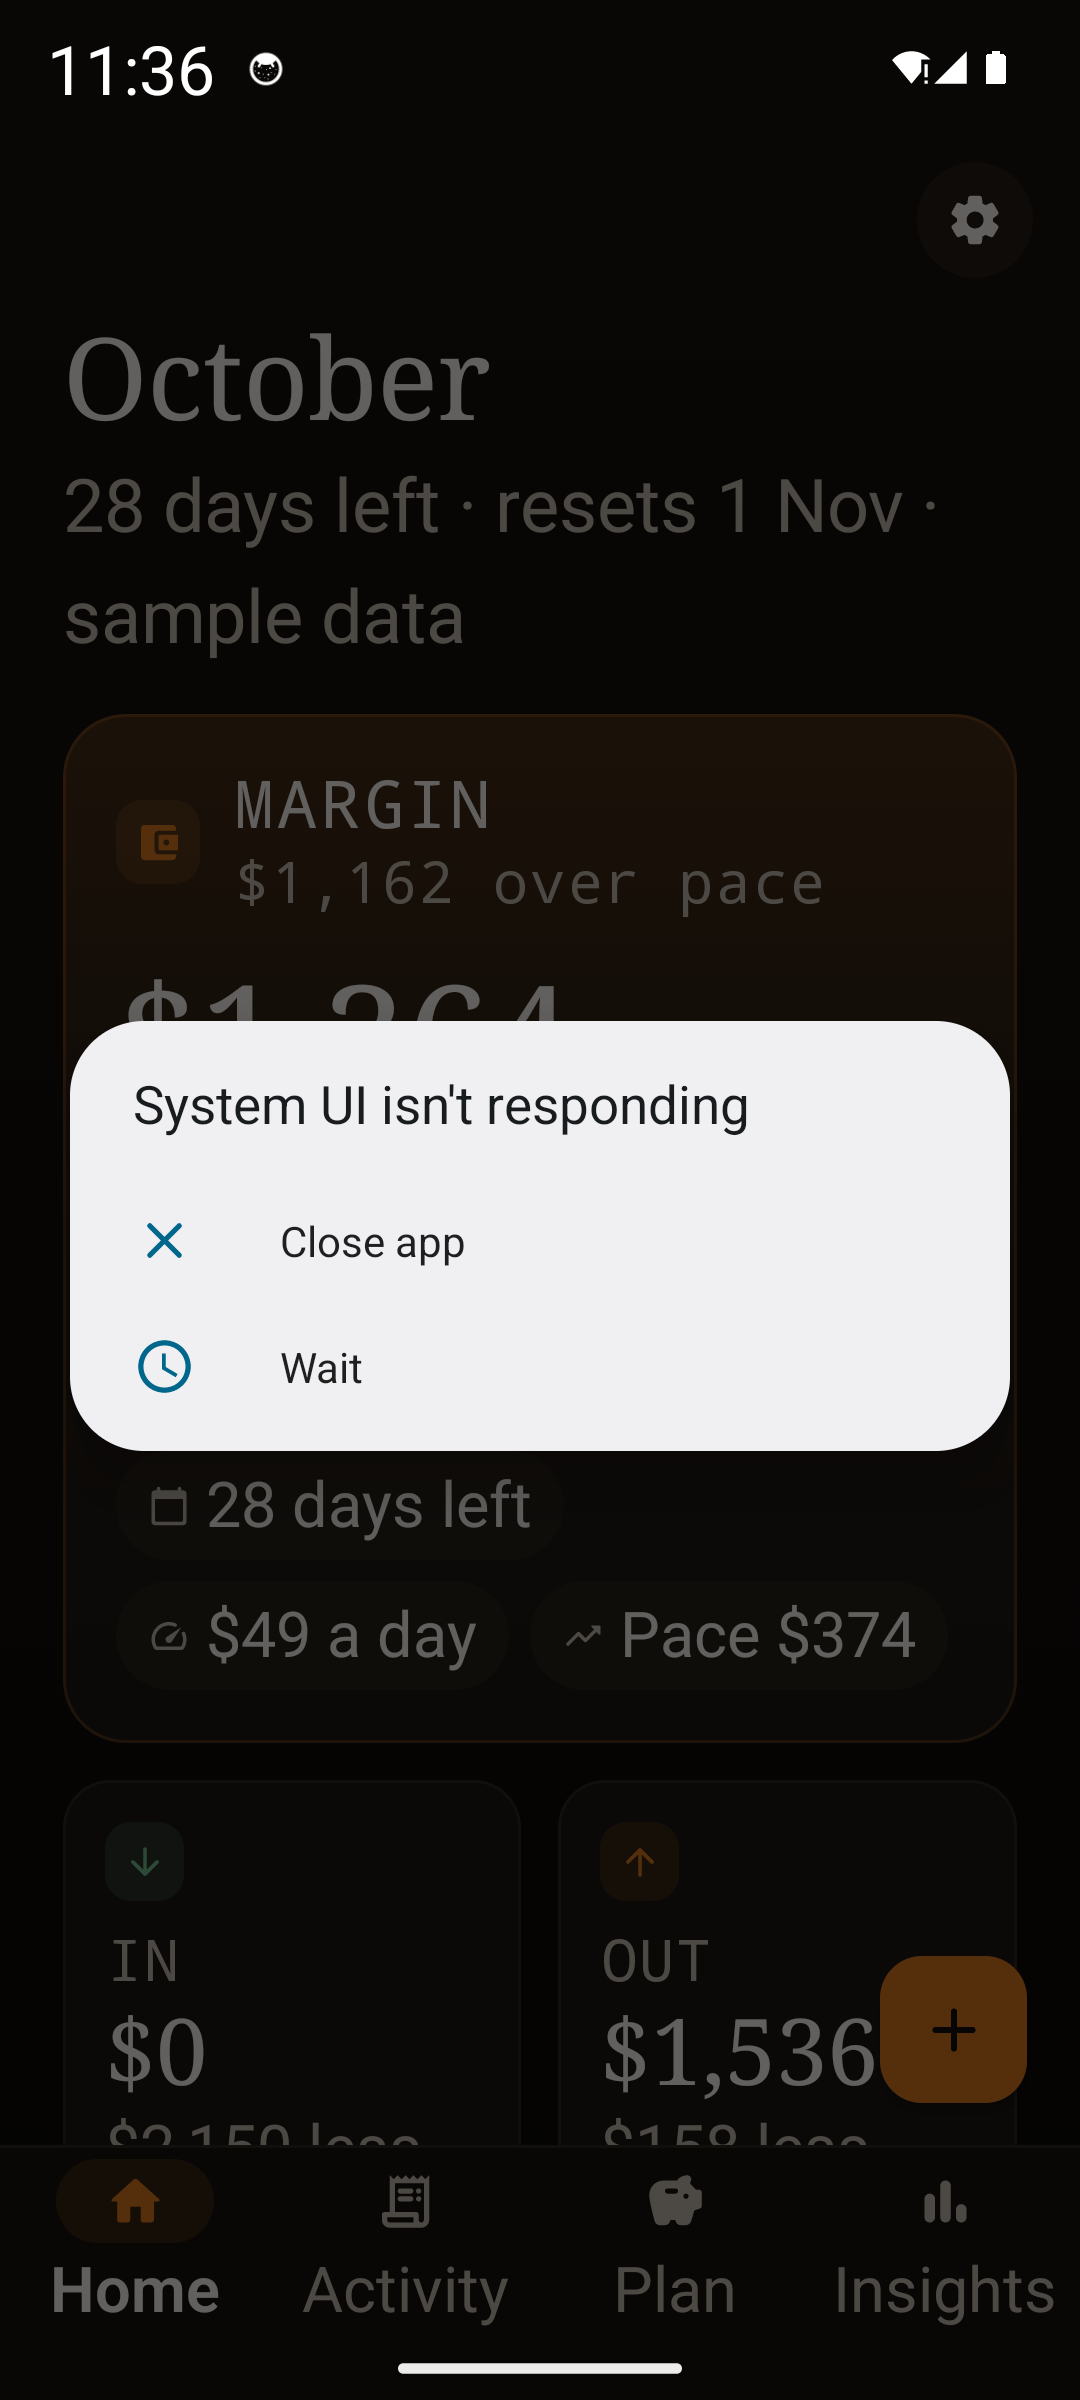
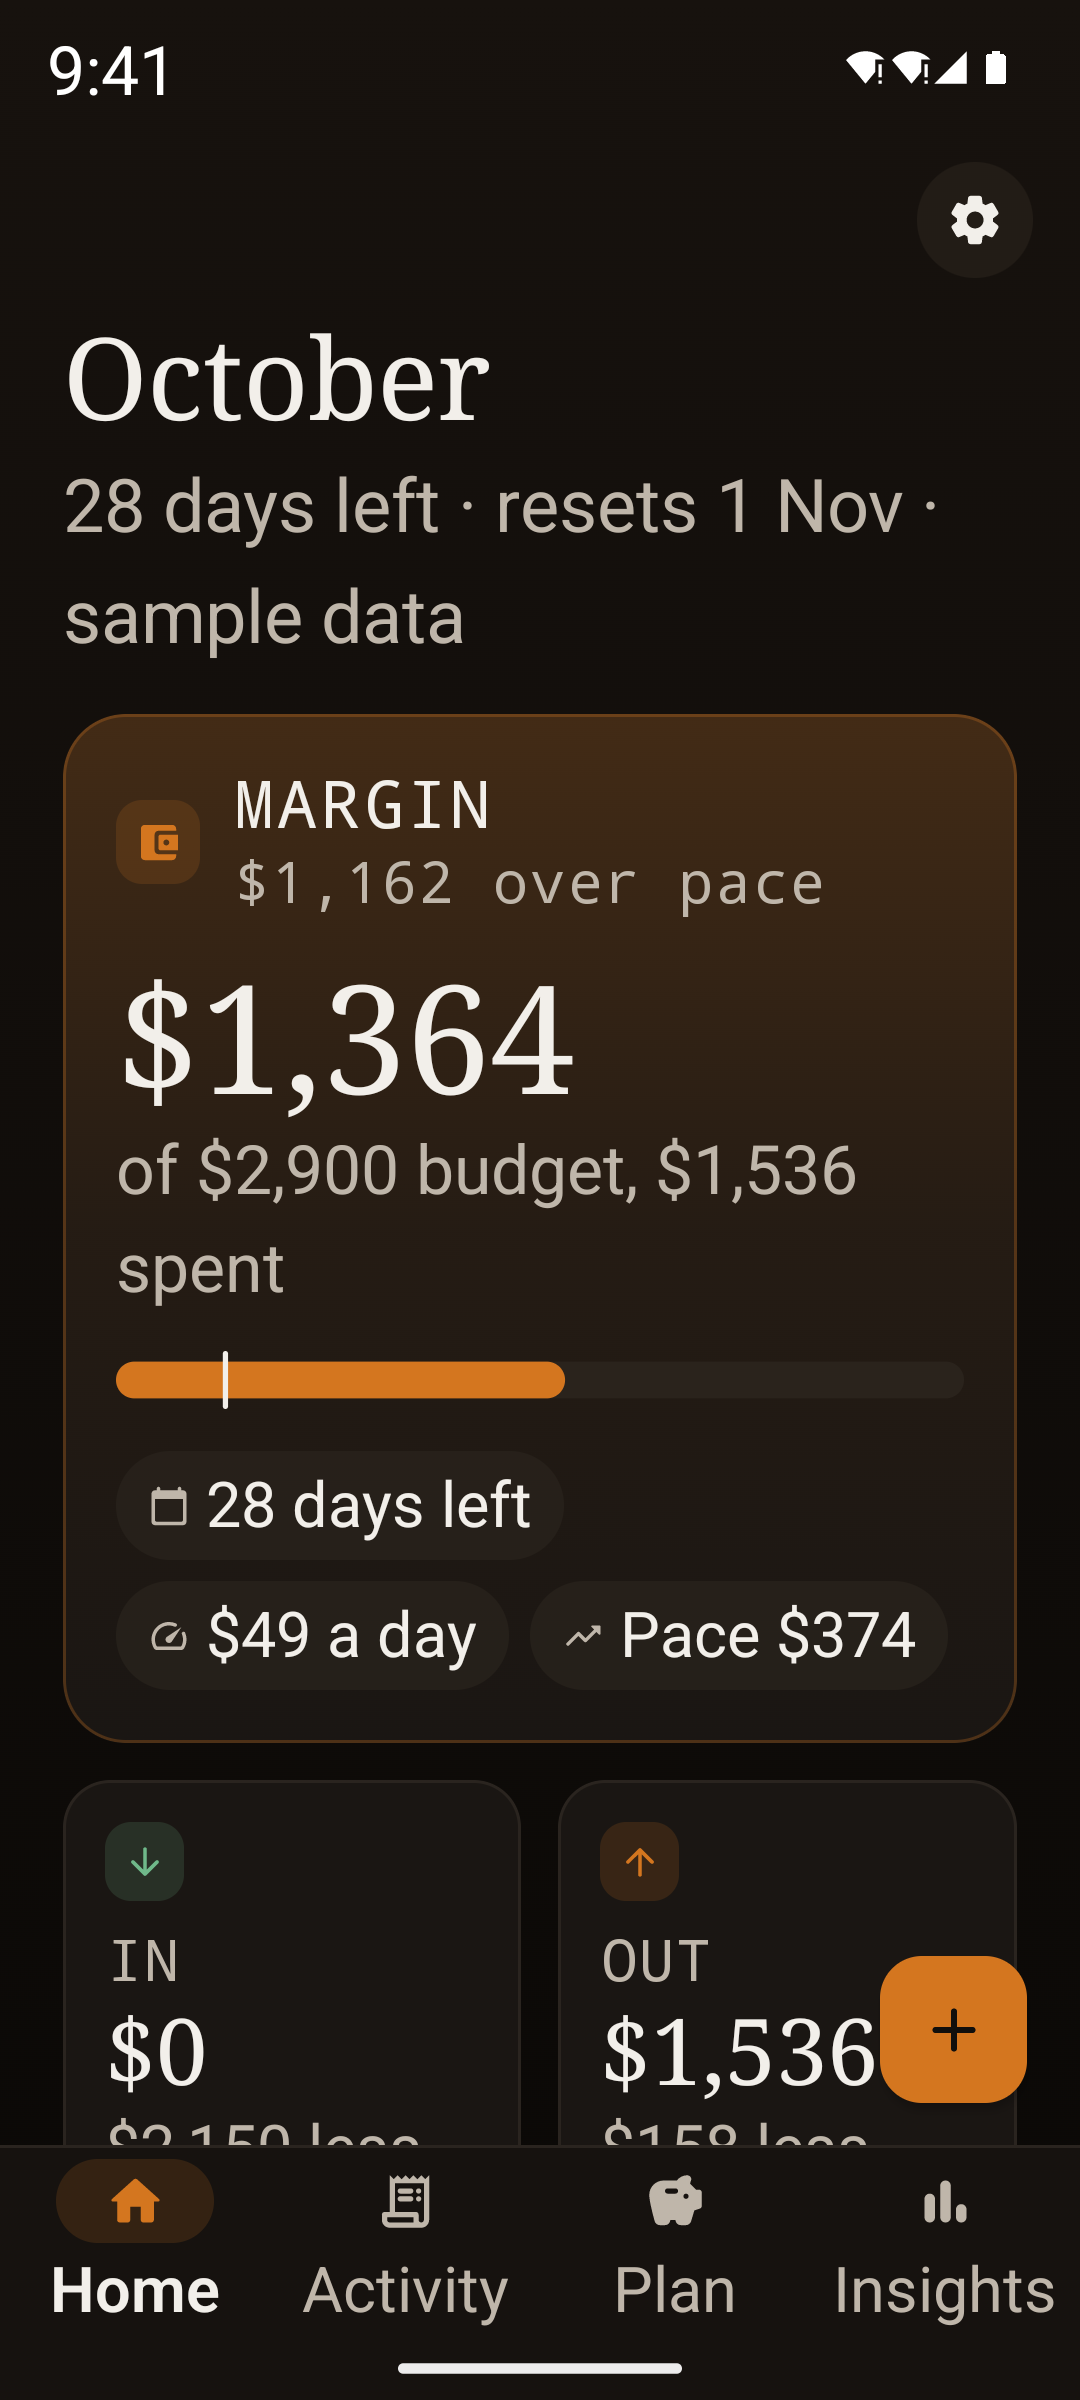
Record device captures

diff --git a/apps/tally/.impeccable/captures/PROVENANCE.md b/apps/tally/.impeccable/captures/PROVENANCE.md
@@ -3,8 +3,8 @@
 Emulator screenshots of Home with its real system bars, for the design finish review.
 Written by `.github/workflows/device-captures.yml`; run it again rather than editing these.
 
-- Run: [37243670550](https://github.com/antho976/Tally/actions/runs/37243670550)
-- Commit: `830e8433dc123d8838f777d659e2fdbc02092618` on `ccr-f4d00244-l3la8z`
+- Run: [37244781274](https://github.com/antho976/Tally/actions/runs/37244781274)
+- Commit: `04eb1bed91ded3d00f5d1e4f34c1094f91f89216` on `ccr-f4d00244-l3la8z`
 - Build: debug APK, sample data loaded through first run, system animations off
 - Status bar: SystemUI demo mode (fixed clock, full battery and signal, no notification icons)
 
